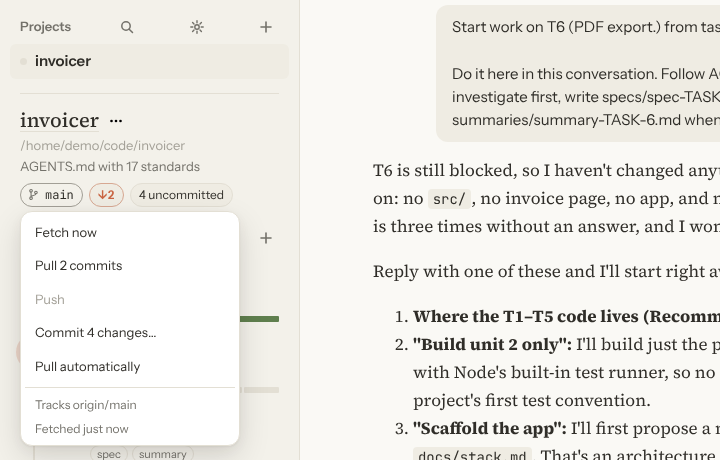
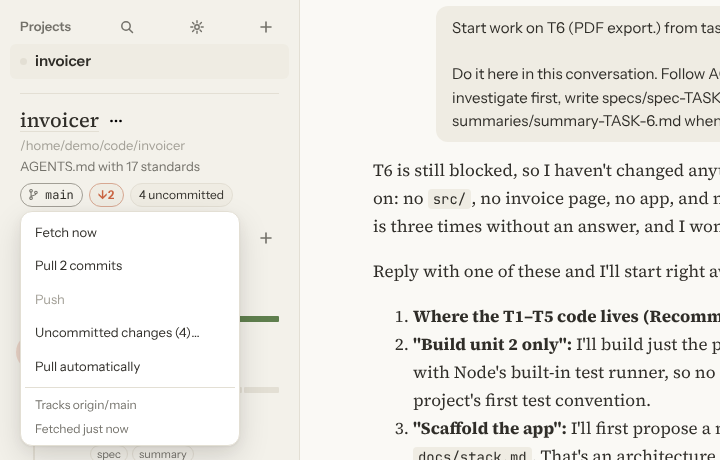
Show uncommitted changes in a panel before asking for a commit
Clicking "N uncommitted" asked the agent to commit straight away. It now
opens a panel listing each file with how it changed (changed, new,
deleted, renamed, in conflict) and one diff of it all, new files'
contents included, read without taking git's optional locks. The panel
has Ask the agent to commit and Close; nothing is committed unless the
first is pressed. The branch menu's item opens the same panel.

Claude-Session: https://claude.ai/code/session_01HTDuyuTrwzEU3M4iYS5dWE

Changed region(s): [[0.6111, 0.1826, 1.0, 0.2739], [0.6111, 0.0304, 1.0, 0.0913], [0.0306, 0.7, 0.275, 0.7304]]

diff --git a/src/ui/git.ts b/src/ui/git.ts
@@ -2,7 +2,10 @@ import { $, h, svgIcon } from './dom';
 
 const ICON_BRANCH =
   '<g fill="none" stroke="currentColor" stroke-width="1.3"><circle cx="5" cy="3.5" r="1.6"/><circle cx="5" cy="12.5" r="1.6"/><circle cx="11" cy="5.5" r="1.6"/><path d="M5 5.1v5.8M11 7.1c0 2.5-6 1.8-6 3.8"/></g>';
+import type { ChangedFile } from '../../sidecar/src/protocol';
+import { closeDocs, docsView, setDocsView } from './docs';
 import { MenuItem, closeMenu, menuAnchor, openMenu } from './menus';
+import { diffView } from './worktrees';
 import { Proj, active, send } from './state';
 
 // ---------- git: where the project's branch stands, and fetch, pull, push and commit ----------
@@ -25,6 +28,85 @@ export function pull(p: Proj): void {
 const push = (p: Proj) => send({ type: 'gitPush', project: p.dir });
 const commit = (p: Proj) => send({ type: 'gitCommit', project: p.dir });
 
+// ---------- what isn't committed: a panel to look before asking for a commit ----------
+
+export interface UncommittedView {
+  files?: ChangedFile[];
+  diff?: string;
+  more?: number;
+  error?: string;
+}
+
+const STATUS: Record<ChangedFile['status'], [string, string]> = {
+  modified: ['M', 'Changed'],
+  added: ['A', 'Added'],
+  deleted: ['D', 'Deleted'],
+  renamed: ['R', 'Renamed'],
+  untracked: ['N', 'New, not yet tracked'],
+  conflict: ['U', 'Conflict'],
+};
+
+export function openChanges(p: Proj): void {
+  const requestId = Math.random().toString(36).slice(2);
+  setDocsView({ project: p.dir, key: 'uncommitted', requestId, tab: '', docs: [], uncommitted: {} });
+  send({ type: 'gitChanges', project: p.dir, requestId });
+  renderUncommitted(p);
+  $('docs-panel').hidden = false;
+  $('docs-close').focus();
+}
+
+export function onGitChanges(p: Proj, e: { requestId: string; files: ChangedFile[]; diff: string; more: number; error?: string }): void {
+  if (docsView?.project !== p.dir || docsView.requestId !== e.requestId || !docsView.uncommitted) return;
+  docsView.uncommitted = { files: e.files, diff: e.diff, more: e.more, error: e.error };
+  renderUncommitted(p);
+}
+
+export function renderUncommitted(p: Proj | undefined): void {
+  const view = docsView?.uncommitted;
+  if (!p || !view) return;
+  const files = view.files;
+  $('docs-tabs').hidden = true;
+  $('docs-ref').textContent = 'Uncommitted changes';
+  $('docs-title').textContent = files ? `${files.length + (view.more ?? 0)} file${files.length + (view.more ?? 0) === 1 ? '' : 's'}${p.git?.branch ? ` on ${p.git.branch}` : ''}` : 'Looking…';
+  const body = $('docs-body');
+  if (view.error) body.replaceChildren(h('div', { class: 'docs-empty' }, h('p', {}, `Couldn’t read the changes: ${view.error}`)));
+  else if (!files) body.replaceChildren(h('div', { class: 'docs-empty' }, h('p', {}, 'Reading the changes…')));
+  else if (!files.length) body.replaceChildren(h('div', { class: 'docs-empty' }, h('p', {}, 'Nothing uncommitted: everything is in a commit.')));
+  else {
+    body.replaceChildren(
+      h(
+        'ul',
+        { class: 'changed-files' },
+        ...files.map((f) => {
+          const [mark, word] = STATUS[f.status];
+          return h('li', { class: `changed ${f.status}` }, h('span', { class: 'changed-mark', title: word, 'aria-label': word }, mark), h('span', { class: 'changed-path' }, f.from ? `${f.from} → ${f.path}` : f.path));
+        }),
+        view.more ? h('li', { class: 'changed more' }, `and ${plural(view.more, 'more file')}`) : null,
+      ),
+      view.diff ? diffView(view.diff) : '',
+    );
+  }
+  const actions = $('docs-actions');
+  actions.hidden = false;
+  actions.replaceChildren(
+    h(
+      'button',
+      {
+        class: 'button primary',
+        type: 'button',
+        disabled: !files?.length,
+        title: 'The agent reads the changes and commits them in sensible pieces with clear messages; it doesn’t push',
+        onclick: () => {
+          commit(p);
+          closeDocs();
+        },
+      },
+      'Ask the agent to commit',
+    ),
+    h('button', { class: 'button quiet', type: 'button', onclick: closeDocs }, 'Close'),
+  );
+}
+
 export function gitMenu(p: Proj): MenuItem[] {
   const g = p.git;
   if (!g?.repo) return [];
@@ -34,7 +116,7 @@ export function gitMenu(p: Proj): MenuItem[] {
     g.upstream
       ? { label: g.ahead ? `Push ${plural(g.ahead, 'commit')}` : 'Push', disabled: !g.ahead || !!g.running, run: () => push(p) }
       : { label: g.remotes.length ? `Publish ${g.branch ?? 'branch'}` : 'Publish (no remote)', disabled: !g.remotes.length || !g.branch || !!g.running, run: () => push(p) },
-    { label: g.changed + g.untracked ? `Commit ${plural(g.changed + g.untracked, 'change')}…` : 'Commit…', disabled: !(g.changed + g.untracked), run: () => commit(p) },
+    { label: g.changed + g.untracked ? `Uncommitted changes (${g.changed + g.untracked})…` : 'Uncommitted changes', disabled: !(g.changed + g.untracked), run: () => openChanges(p) },
     { label: 'Pull automatically', checked: g.autoPull, run: () => send({ type: 'setAutoPull', project: p.dir, on: !g.autoPull }) },
   ];
   const facts = [
@@ -85,7 +167,7 @@ export function renderGit(): void {
     g.behind ? chip(`↓${g.behind}`, `Pull ${plural(g.behind, 'commit')} from ${g.upstream}${g.ahead ? ` (it has diverged: ${g.ahead} to push too)` : ''}`, () => pull(p), 'pull') : null,
     g.ahead && g.upstream ? chip(`↑${g.ahead}`, `Push ${plural(g.ahead, 'commit')} to ${g.upstream}`, () => push(p), 'push') : null,
     !g.upstream && g.branch && g.remotes.length ? chip('Publish', `Push ${g.branch} and track it on ${g.remotes.includes('origin') ? 'origin' : g.remotes[0]}`, () => push(p), 'push') : null,
-    uncommitted ? chip(`${uncommitted} uncommitted`, 'Ask the agent to commit these changes', () => commit(p), 'changes') : null,
+    uncommitted ? chip(`${uncommitted} uncommitted`, 'See what isn’t committed', () => openChanges(p), 'changes') : null,
     g.conflicts ? h('span', { class: 'git-conflicts warn-text' }, plural(g.conflicts, 'conflict')) : null,
     g.fetchError ? h('span', { class: 'git-warn warn-text', title: `Last fetch failed: ${g.fetchError}` }, '!') : null,
   ];

diff --git a/sidecar/src/git.ts b/sidecar/src/git.ts
@@ -1,5 +1,5 @@
 import { execFile } from 'node:child_process';
-import type { GitInfo } from './protocol.js';
+import type { ChangedFile, GitInfo } from './protocol.js';
 
 // The project's git repository, through the git command-line tool: where its branch stands
 // against its upstream, fetching on a timer, and pulling (fast-forward only) and pushing on
@@ -41,6 +41,61 @@ export function gitMessage(out: string): string {
   const lines = out.split(/\r?\n/).map((l) => l.trim()).filter((l) => l && !/^hint:/i.test(l));
   const important = lines.filter((l) => /^(fatal|error|remote: error)\b/i.test(l) || /rejected/.test(l));
   return (important.length ? important : lines.slice(-3)).map((l) => l.replace(/^(fatal|error):\s*/i, '')).join(' ').slice(0, 500) || 'git failed.';
+}
+
+const MAX_DIFF = 400_000;
+const MAX_FILES = 500;
+const MAX_NEW_FILE_DIFFS = 50;
+
+/** One line of git status --porcelain=v1: what kind of change it is. */
+function changeKind(xy: string): ChangedFile['status'] {
+  if (xy === '??') return 'untracked';
+  if (xy.includes('U') || xy === 'AA' || xy === 'DD') return 'conflict';
+  if (xy.includes('R')) return 'renamed';
+  if (xy.includes('D')) return 'deleted';
+  if (xy[0] === 'A') return 'added';
+  return 'modified';
+}
+
+/** git status --porcelain=v1 -z, as files. A rename's entry is followed by the name it had. */
+export function parseChanges(z: string): ChangedFile[] {
+  const parts = z.split('\0');
+  const out: ChangedFile[] = [];
+  for (let i = 0; i < parts.length; i++) {
+    const e = parts[i];
+    if (e.length < 4) continue;
+    const xy = e.slice(0, 2);
+    const file: ChangedFile = { path: e.slice(3), status: changeKind(xy) };
+    if (xy.includes('R') || xy.includes('C')) file.from = parts[++i];
+    out.push(file);
+  }
+  return out;
+}
+
+/** What isn't committed: each file and how it changed, and one diff of it all. Reads only. */
+export async function uncommittedChanges(root: string): Promise<{ files: ChangedFile[]; diff: string; more: number }> {
+  const z = await git(root, ['--no-optional-locks', 'status', '--porcelain=v1', '-z']);
+  const all = parseChanges(z);
+  const files = all.slice(0, MAX_FILES);
+  const hasHead = await git(root, ['rev-parse', '--verify', '-q', 'HEAD']).then(() => true, () => false);
+  // Against the last commit, so staged and unstaged changes show together; before any commit, both halves.
+  let diff = hasHead
+    ? await git(root, ['--no-optional-locks', 'diff', 'HEAD', '--no-color', '-M'])
+    : (await git(root, ['--no-optional-locks', 'diff', '--cached', '--no-color'])) + (await git(root, ['--no-optional-locks', 'diff', '--no-color']));
+  // New files have no diff in git's eyes: show their contents as added lines.
+  for (const f of files.filter((x) => x.status === 'untracked' && !x.path.endsWith('/')).slice(0, MAX_NEW_FILE_DIFFS)) {
+    if (diff.length > MAX_DIFF) break;
+    diff += await noIndexDiff(root, f.path);
+  }
+  if (diff.length > MAX_DIFF) diff = diff.slice(0, MAX_DIFF) + '\n# … the rest is cut short';
+  return { files, diff, more: all.length - files.length };
+}
+
+/** git diff --no-index against nothing: a new file as all-added lines. git exits 1 when they differ. */
+function noIndexDiff(root: string, file: string): Promise<string> {
+  return new Promise((resolve) => {
+    execFile('git', ['diff', '--no-color', '--no-index', '--', '/dev/null', file], { cwd: root, timeout: QUICK, maxBuffer: 4 * 1024 * 1024, windowsHide: true }, (_err, stdout) => resolve(String(stdout ?? '')));
+  });
 }
 
 let installed: Promise<boolean> | undefined;

diff --git a/src/ui/docs.ts b/src/ui/docs.ts
@@ -11,6 +11,7 @@ import { renderSubagentView } from './subagents';
 import { renderChangesView } from './changes';
 import { renderUsageView } from './usage';
 import { renderWorkstreamsView } from './workstreams';
+import { renderUncommitted, type UncommittedView } from './git';
 
 // ---------- progress panel (spec and summary) ----------
 
@@ -21,7 +22,7 @@ export interface PlainDoc {
   title: string;
 }
 export let docsView:
-  | { project: string; key: string; requestId: string; tab: string; docs: DocContent[]; doc?: PlainDoc; question?: string; worktree?: string; diff?: string; subagent?: string; changes?: string; usage?: boolean; workstreams?: boolean }
+  | { project: string; key: string; requestId: string; tab: string; docs: DocContent[]; doc?: PlainDoc; question?: string; worktree?: string; diff?: string; subagent?: string; changes?: string; usage?: boolean; workstreams?: boolean; uncommitted?: UncommittedView }
   | undefined;
 export const setDocsView = (view: typeof docsView) => (docsView = view);
 
@@ -95,6 +96,7 @@ export function renderDocs(): void {
   if (docsView.changes) return renderChangesView(p);
   if (docsView.usage) return renderUsageView(p);
   if (docsView.workstreams) return renderWorkstreamsView(p);
+  if (docsView.uncommitted) return renderUncommitted(p);
   resetQuestionView();
   const plain = docsView.doc;
   const item = p && !plain ? allItems(p).get(docsView.key) : undefined;

diff --git a/sidecar/src/protocol.ts b/sidecar/src/protocol.ts
@@ -74,6 +74,7 @@ export type UiCommand =
   | { type: 'send'; project: string; text: string; attachments?: Attachment[] }
   | { type: 'resetUsage'; project: string }
   | { type: 'gitRefresh'; project: string }
+  | { type: 'gitChanges'; project: string; requestId: string } // what isn't committed, for review
   | { type: 'gitFetch'; project: string }
   | { type: 'gitPull'; project: string }
   | { type: 'gitPush'; project: string }
@@ -269,6 +270,13 @@ export interface SessionInfo {
   slashCommands: string[];
 }
 
+/** A file with uncommitted changes. */
+export interface ChangedFile {
+  path: string; // a folder of new files ends with /
+  status: 'modified' | 'added' | 'deleted' | 'renamed' | 'untracked' | 'conflict';
+  from?: string; // a rename's old name
+}
+
 /** Where the project's git repository stands. */
 export interface GitInfo {
   available: boolean; // the git command-line tool is installed
@@ -368,6 +376,7 @@ export type ProjectEvent =
   | { type: 'session'; info: SessionInfo }
   | { type: 'usage'; usage: ProjectUsage }
   | { type: 'git'; info: GitInfo }
+  | { type: 'gitChanges'; requestId: string; files: ChangedFile[]; diff: string; more: number; error?: string }
   | { type: 'planLimit'; limit: PlanLimit }
   | { type: 'gauges'; gauges: Gauges }
   | { type: 'commands'; commands: CommandInfo[] } // slash commands and skills the "/" picker offers

diff --git a/sidecar/src/index.ts b/sidecar/src/index.ts
@@ -19,7 +19,7 @@ import { listMcp, removeMcp, saveMcp } from './mcp.js';
 import { discardWorktree, listWorktrees, mergeWorktree, worktreeDiff } from './worktrees.js';
 import { addBug, addQuestion, addTask } from './capture.js';
 import { UsageLedger } from './usage.js';
-import { GitMonitor } from './git.js';
+import { GitMonitor, uncommittedChanges } from './git.js';
 import { serverContextWindow } from './context.js';
 import { fixPath } from './shellpath.js';
 import { appVersion, loadProjectSettings, migrateConfigDir, readProjectSettings } from './names.js';
@@ -362,6 +362,16 @@ async function handle(cmd: UiCommand): Promise<void> {
     case 'gitSettings':
       if (typeof cmd.fetchMinutes === 'number') await providers.setFetchMinutes(cmd.fetchMinutes);
       return emit({ type: 'gitSettings', fetchMinutes: providers.fetchMinutes });
+    case 'gitChanges': {
+      const p = need(cmd.project);
+      try {
+        const { files, diff, more } = await uncommittedChanges(p.dir);
+        p.out({ type: 'gitChanges', requestId: cmd.requestId, files, diff, more });
+      } catch (err) {
+        p.out({ type: 'gitChanges', requestId: cmd.requestId, files: [], diff: '', more: 0, error: err instanceof Error ? err.message : String(err) });
+      }
+      return;
+    }
     case 'gitRefresh':
       return need(cmd.project).git.refresh();
     case 'gitFetch':

diff --git a/src/styles.css b/src/styles.css
@@ -3021,3 +3021,40 @@ textarea {
   color: var(--faint);
   font-size: 0.75rem;
 }
+
+.changed-files {
+  margin: 0 0 14px;
+  padding: 0;
+  list-style: none;
+  font-family: var(--mono);
+  font-size: 0.75rem;
+}
+.changed {
+  display: flex;
+  gap: 10px;
+  padding: 3px 0;
+}
+.changed-mark {
+  flex: none;
+  width: 1.4em;
+  text-align: center;
+  border-radius: 3px;
+  background: var(--raised);
+  color: var(--muted);
+  font-weight: 700;
+}
+.changed.added .changed-mark,
+.changed.untracked .changed-mark {
+  color: var(--done);
+}
+.changed.deleted .changed-mark,
+.changed.conflict .changed-mark {
+  color: var(--bug);
+}
+.changed-path {
+  min-width: 0;
+  overflow-wrap: anywhere;
+}
+.changed.more {
+  color: var(--muted);
+}

diff --git a/src/ui/events.ts b/src/ui/events.ts
@@ -17,7 +17,7 @@ import { notify } from './notify';
 import { clearQueuedTurns, endTurn, noteToolUse, onRewound, startTurn } from './changes';
 import { noteGauges, renderUsageView, setPlanLimit } from './usage';
 import { workstreamFile } from './workstreams';
-import { renderGit, setFetchMinutes } from './git';
+import { onGitChanges, renderGit, setFetchMinutes } from './git';
 
 // ---------- events ----------
 
@@ -117,6 +117,8 @@ export function onEvent(e: SidecarEvent): void {
     case 'commands':
       p.commands = e.commands;
       return;
+    case 'gitChanges':
+      return onGitChanges(p, e);
     case 'git':
       p.git = e.info;
       if (isActive) renderGit();

diff --git a/src/ui/worktrees.ts b/src/ui/worktrees.ts
@@ -82,7 +82,7 @@ export function reviewWorktree(p: Proj, w: WorktreeInfo): void {
 }
 
 /** A unified diff as a list of files, each with its lines coloured. */
-function diffView(diff: string): HTMLElement {
+export function diffView(diff: string): HTMLElement {
   const files: { name: string; lines: string[] }[] = [];
   let cur: { name: string; lines: string[] } | undefined;
   for (const line of diff.split('\n')) {

diff --git a/README.md b/README.md
@@ -154,8 +154,10 @@ says so, and a folder that isn't a repository offers **Initialise git**.
   it stops and says so, and you can ask the agent to merge. Pulling while the agent is working asks
   first.
 - **Push** with the ↑ button, or **Publish** a branch that isn't on the remote yet. It never forces.
-- **Commit** with the "uncommitted" button: the agent reads the changes and commits them in sensible
-  pieces with clear messages, leaving out anything that shouldn't be committed. It doesn't push.
+- **Uncommitted changes**: the "uncommitted" button lists each changed file (changed, new, deleted,
+  renamed, in conflict) with its diff. **Ask the agent to commit** there has the agent read the
+  changes and commit them in sensible pieces with clear messages, leaving out anything that
+  shouldn't be committed. It doesn't push.
 - **Pull automatically**, in the branch menu, is off until you turn it on for a project. It then
   pulls after each fetch, but only when it's a fast-forward, the agent is idle and nothing is
   uncommitted.

diff --git a/docs/configuration.md b/docs/configuration.md
@@ -200,7 +200,7 @@ their built-in text, so you can change one without copying the rest.
 | **Summarise work done** | a finished task, bug or phase | `summarise` | |
 | **Run workstreams** | the streams you pick | `runWorkstreams` | |
 | **Find workstreams** | the board | `findWorkstreams` | |
-| **Commit** | the uncommitted changes, from the git line under the project's name | `commitChanges` | |
+| **Ask the agent to commit** | the uncommitted changes, from the git line under the project's name | `commitChanges` | |
 
 Items in **Up next** use the same prompts when their turn comes: **Start now** for the main
 queue, **Start in subagent** for items queued to run in a subagent.
